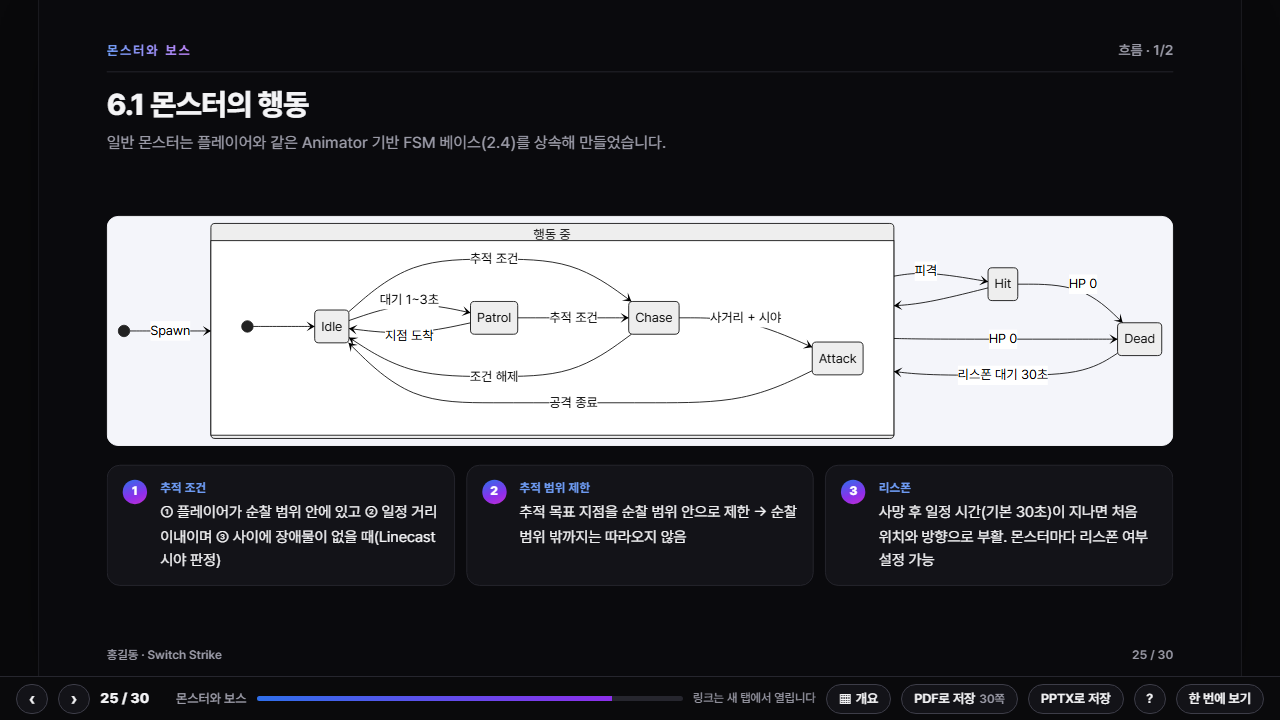
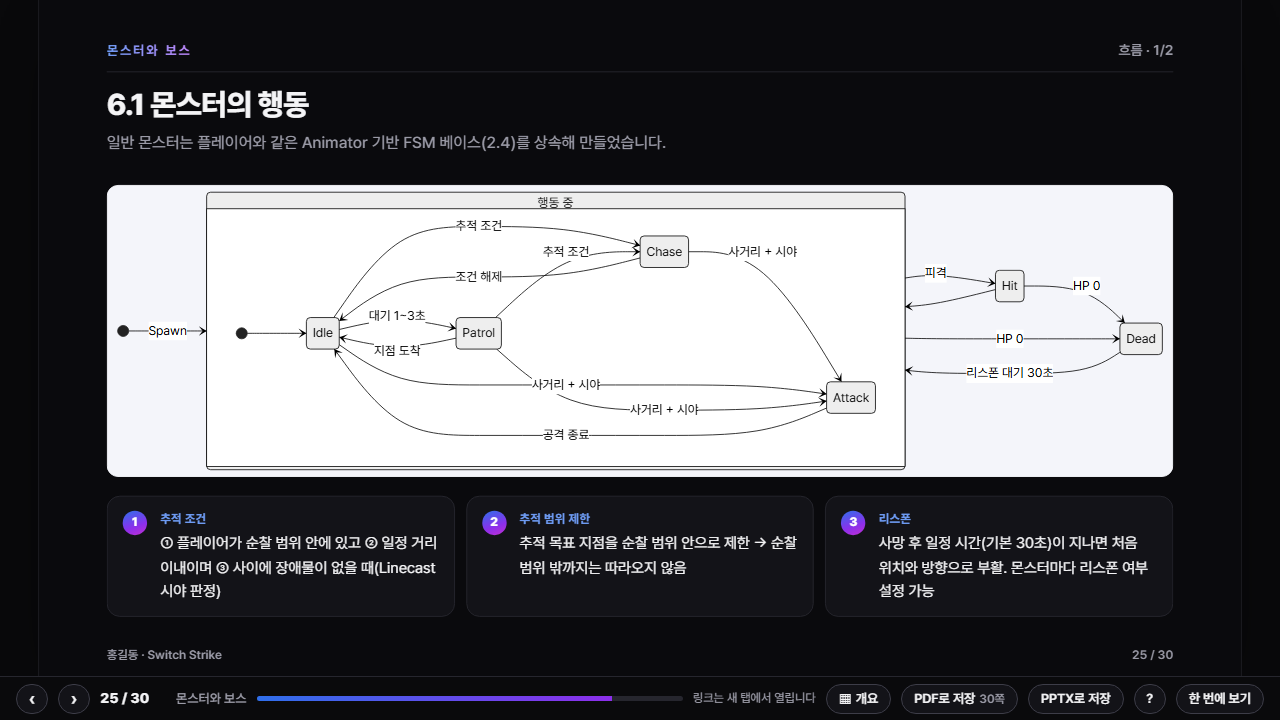
샘플: Switch Strike §6.1 상태 그림에 글이 말하는 전이 더하기
인용문("Idle·Patrol 상태에서도 사거리와 시야 안에 들어오면 바로 공격")의
전이 Idle → Attack, Patrol → Attack이 그림에 없던 것을 맞춤.
docs/img/deck-structure.png 다시 찍음.

Changed region(s): [[0.0625, 0.2444, 0.9375, 0.825], [0.75, 0.4583, 0.8438, 0.55], [0.8438, 0.4278, 0.9062, 0.4889]]

diff --git a/src/1-action-platformer/프로젝트문서.md b/src/1-action-platformer/프로젝트문서.md
@@ -925,6 +925,8 @@ stateDiagram-v2
         Patrol --> Chase : 추적 조건
         Chase --> Idle : 조건 해제
         Chase --> Attack : 사거리 + 시야
+        Idle --> Attack : 사거리 + 시야
+        Patrol --> Attack : 사거리 + 시야
         Attack --> Idle : 공격 종료
     }
     Active --> Hit : 피격
